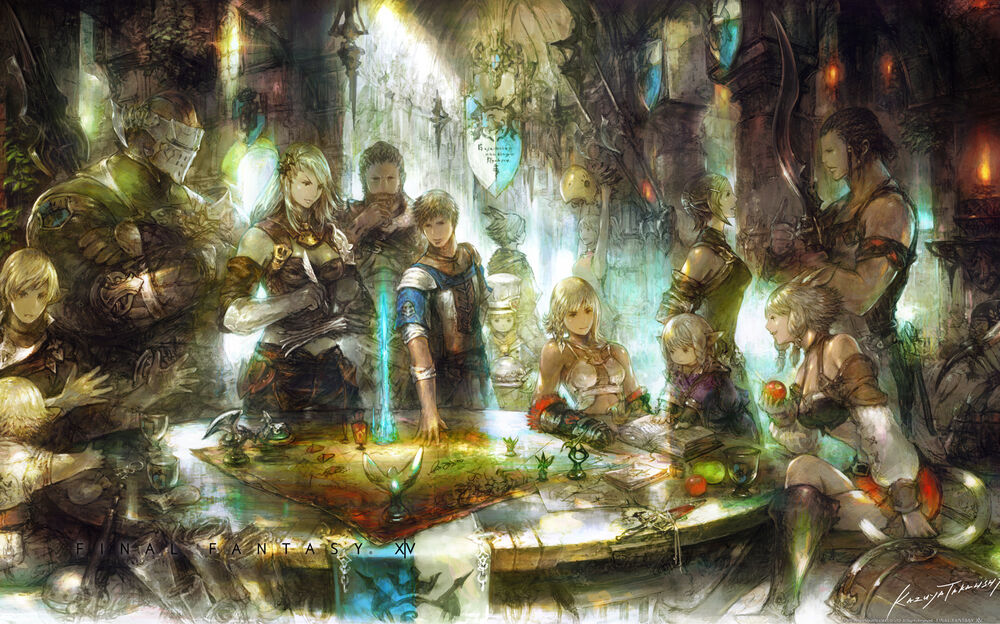
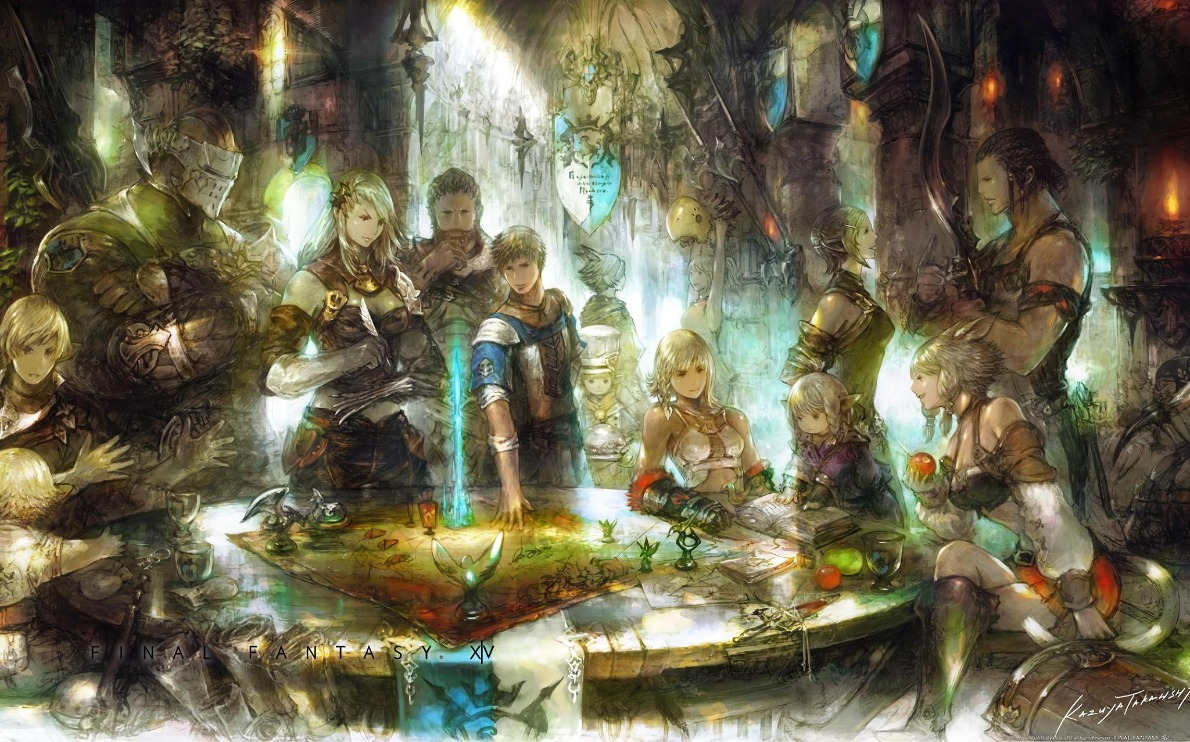
Redesigning website (in progress)

diff --git a/public/css/styles.css b/public/css/styles.css
@@ -9,26 +9,29 @@ html {
 }
 
 body {
-  background-color: gray;
+  /* background-image: url(../img/ff14-background.jpg);
+  background-position: center; */
+  background-color: rgb(37, 37, 37);
   margin: 0 auto;
 }
 
 #wrapper {
   margin: 0 auto;
-  width: 1120px;
+  width: 1200px;
   height: 100%;
 }
 
 /* Header CSS*/
 
 #masthead {
-  padding: 10px;
+  padding: 5px;
   background-color: white;
 }
 
 #header-img {
-  background-image: url(../img/ff14-fc-desk.png);
-  background-position: center;
+  /* background-image: url(../img/ff14-crystal.jpg);
+  background-position: center; */
+  background-color: rgb(10, 9, 10);
 }
 
 #header-title {
@@ -61,7 +64,7 @@ header img {
 header nav ul {
   margin: 0;
   position: relative;
-  background-color: #504741;
+  background-color: #3b3632;
   list-style: none;
   text-align: center;
 }
@@ -135,8 +138,8 @@ header nav li a {
 /* Top Content */
 
 #content-wrapper {
-  margin-top: 20px;
-  padding: 10px;
+  margin-top: 10px;
+  padding: 5px;
   background-color: white;
 }
 
@@ -168,7 +171,6 @@ header nav li a {
 #login {
   display: inline;
   text-align: center;
-  margin-top: 20px;
 }
 
 #login-container {
@@ -232,21 +234,21 @@ header nav li a {
 
 /* Page Img */
 #page-img-wrapper {
-  padding: 10px;
+  padding: 5px;
   background-color: white;
-  margin-top: 20px;
+  margin-top: 10px;
 }
 
 /* Main Page Content */
 #main {
-  margin-top: 20px;
-  padding: 10px;
+  margin-top: 10px;
+  padding: 5px;
   background-color: white;
 }
 
 /* About Page */
 .section div {
-  margin: 2rem;
+  margin: 1rem;
 }
 
 #casual div {
@@ -278,9 +280,13 @@ header nav li a {
   margin: 1rem;
 }
 
+.right-align {
+  text-align: right;
+}
+
 /* Footer */
 footer {
-  background-color: #504741;
+  background-color: #3b3632;
   color: #fff;
   margin-top: 1rem;
   padding: 1rem;
@@ -290,14 +296,24 @@ footer {
 #gallery-grid {
   border: 1px solid black;
   max-width: 1100x;
-  margin: 0 auto;
   padding: 15px;
+  text-align: center;
+}
+
+#gallery-grid-container {
+  margin: 5px auto;
+}
+
+#thumbnails {
+  margin: 0 auto;
+  background-color: blue;
 }
 
 #gallery-grid img {
   border: 1px solid black;
   margin: 5px;
   padding: 5px;
+  cursor: pointer;
 }
 
 

diff --git a/public/gallery.php b/public/gallery.php
@@ -18,15 +18,17 @@
         <script src="<?php echo url_for('../public/js/gallery.js'); ?>" defer></script>
         <!-- Thumbnail Gallery -->
         <div id="gallery-grid">
-          <img id="img1" src="<?php echo url_for('/img/gallery/ff14-group-photo-small.jpg'); ?>" alt="Free Company Group Photo" width="345" height="194">
-          <img id="img2" src="<?php echo url_for('/img/gallery/ff14-shadowbringers-small.jpg'); ?>" alt="Free Company Dungeon" width="345" height="194">
-          <img id="img3" src="<?php echo url_for('/img/gallery/ff14-rival-wings-small.jpg'); ?>" alt="Free Company Fight" width="345" height="194">
-          <img id="img4" src="<?php echo url_for('/img/gallery/ff14-all-black-small.jpg'); ?>" alt="Free Company All Black Photo" width="345" height="194">
-          <img id="img5" src="<?php echo url_for('/img/gallery/ff14-stance-small.jpg'); ?>" alt="Free Company Stance Photo" width="345" height="194">
-          <img id="img6" src="<?php echo url_for('/img/gallery/ff14-mech-boss-small.jpg'); ?>" alt="Free Company Mech Boss" width="345" height="194">
-          <img id="img7" src="<?php echo url_for('/img/gallery/ff14-armored-small.jpg'); ?>" alt="Free Company Armored Photo" width="345" height="194">
-          <img id="img8" src="<?php echo url_for('/img/gallery/ff14-ultima-boss-small.jpg'); ?>" alt="Free Company Ultima Boss" width="345" height="194">
-          <img id="img9" src="<?php echo url_for('/img/gallery/ff14-ingame-small.jpg'); ?>" alt="Free Company In-Game Photo" width="345" height="194">
+          <div id="gallery-grid-container">
+            <img id="img1" src="<?php echo url_for('/img/gallery/ff14-group-photo-small.jpg'); ?>" alt="Free Company Group Photo" width="345" height="194">
+            <img id="img2" src="<?php echo url_for('/img/gallery/ff14-shadowbringers-small.jpg'); ?>" alt="Free Company Dungeon" width="345" height="194">
+            <img id="img3" src="<?php echo url_for('/img/gallery/ff14-rival-wings-small.jpg'); ?>" alt="Free Company Fight" width="345" height="194">
+            <img id="img4" src="<?php echo url_for('/img/gallery/ff14-all-black-small.jpg'); ?>" alt="Free Company All Black Photo" width="345" height="194">
+            <img id="img5" src="<?php echo url_for('/img/gallery/ff14-stance-small.jpg'); ?>" alt="Free Company Stance Photo" width="345" height="194">
+            <img id="img6" src="<?php echo url_for('/img/gallery/ff14-mech-boss-small.jpg'); ?>" alt="Free Company Mech Boss" width="345" height="194">
+            <img id="img7" src="<?php echo url_for('/img/gallery/ff14-armored-small.jpg'); ?>" alt="Free Company Armored Photo" width="345" height="194">
+            <img id="img8" src="<?php echo url_for('/img/gallery/ff14-ultima-boss-small.jpg'); ?>" alt="Free Company Ultima Boss" width="345" height="194">
+            <img id="img9" src="<?php echo url_for('/img/gallery/ff14-ingame-small.jpg'); ?>" alt="Free Company In-Game Photo" width="345" height="194">
+          </div>
         </div>
 
         <!-- Modal -->

diff --git a/public/staff.php b/public/staff.php
@@ -46,7 +46,7 @@
 
         <div class="section">
           <img src="<?php echo url_for('/img/staff/ff14-council-2.jpg'); ?>" alt="Marco Wrynn" width="436" height="560">
-          <div>
+          <div class="right-align">
             <h3>Marco Wrynn</h3>
             <p>Bacon ipsum dolor amet hamburger shoulder pig brisket cupim corned beef leberkas turducken chuck bacon ham jowl tenderloin short loin tongue. Leberkas ground round alcatra beef short ribs jowl biltong kielbasa pastrami shank filet mignon cow pork belly sausage. Cow ribeye t-bone sirloin, short loin fatback ground round tri-tip alcatra meatloaf tenderloin venison turducken pig bacon.</p>
           </div>
@@ -68,7 +68,7 @@
         </div>
         <div class="section">
           <img src="<?php echo url_for('/img/staff/ff14-officer-1.jpg'); ?>" alt="Naga Fellrain" width="340" height="570">
-          <div>
+          <div class="right-align">
             <h3>Naga Fellrain</h3>
             <p>Bacon ipsum dolor amet hamburger shoulder pig brisket cupim corned beef leberkas turducken chuck bacon ham jowl tenderloin short loin tongue. Leberkas ground round alcatra beef short ribs jowl biltong kielbasa pastrami shank filet mignon cow pork belly sausage. Cow ribeye t-bone sirloin, short loin fatback ground round tri-tip alcatra meatloaf tenderloin venison turducken pig bacon.</p>
           </div>
@@ -84,7 +84,7 @@
 
         <div class="section">
           <img src="<?php echo url_for('/img/staff/ff14-officer-3.jpg'); ?>" alt="Aleidis Westmoore" width="340" height="570">
-          <div>
+          <div class="right-align">
             <h3>Aleidis Westmoore</h3>
             <p>Bacon ipsum dolor amet hamburger shoulder pig brisket cupim corned beef leberkas turducken chuck bacon ham jowl tenderloin short loin tongue. Leberkas ground round alcatra beef short ribs jowl biltong kielbasa pastrami shank filet mignon cow pork belly sausage. Cow ribeye t-bone sirloin, short loin fatback ground round tri-tip alcatra meatloaf tenderloin venison turducken pig bacon.</p>
           </div>
@@ -100,7 +100,7 @@
 
         <div class="section">
           <img src="<?php echo url_for('/img/staff/ff14-officer-5.jpg'); ?>" alt="Aang Jopino" width="340" height="570">
-          <div>
+          <div class="right-align">
             <h3>Aang Jopino</h3>
             <p>Bacon ipsum dolor amet hamburger shoulder pig brisket cupim corned beef leberkas turducken chuck bacon ham jowl tenderloin short loin tongue. Leberkas ground round alcatra beef short ribs jowl biltong kielbasa pastrami shank filet mignon cow pork belly sausage. Cow ribeye t-bone sirloin, short loin fatback ground round tri-tip alcatra meatloaf tenderloin venison turducken pig bacon.</p>
           </div>

diff --git a/private/shared/public_header.php b/private/shared/public_header.php
@@ -14,27 +14,28 @@
     <link href="<?php echo url_for('../public/css/modal.css'); ?>" rel="stylesheet">
   </head>
   <body>
-    <div id="wrapper">
-     
-      <header>
-        <div id="masthead">
-          <div id="header-img">
-            <a href="index.php"><img src="img/crest_white-e1601152867882.png" alt="Crest" width="230" height="235"></a>
-            <div id="header-title">
-              <a href="index.php"><h1>SHADOWS OF DOMA</h1></a>
-              <a href="index.php"><p>FINAL FANTASY XIV</p></a>
-              <a href="index.php"><p>FREE COMPANY/GUILD WEBSITE</p></a>
-            </div>
+    <header>
+      <div id="masthead">
+        <div id="header-img">
+          <a href="index.php"><img src="img/ff14-guild-crest.png" alt="Crest" width="200" height="207"></a>
+          <div id="header-title">
+            <a href="index.php"><h1>SHADOWS OF DOMA</h1></a>
+            <a href="index.php"><p>FINAL FANTASY XIV</p></a>
+            <a href="index.php"><p>FREE COMPANY/GUILD WEBSITE</p></a>
           </div>
         </div>
-        <nav>
-          <ul>
-            <li><a class="<?php if($page == "home") { echo "current"; } ?>" href="index.php">Home</a></li>
-            <li><a class="<?php if($page == "about") { echo "current"; } ?>" href="about.php">About Us</a></li>
-            <li><a class="<?php if($page == "staff") { echo "current"; } ?>" href="staff.php">Meet Our Staff</a></li>
-            <li><a class="<?php if($page == "gallery") { echo "current"; } ?>" href="gallery.php">Gallery</a></li>
-            <li><a class="<?php if($page == "roster") { echo "current"; } ?>" href="roster.php">Roster</a></li>
-            <li><a class="<?php if($page == "login" || $page == "signup") { echo "current"; } ?>" href="login.php">Log in/Register</a></li>
-          </ul>
-        </nav>
-      </header>
+      </div>
+      <nav>
+        <ul>
+          <li><a class="<?php if($page == "home") { echo "current"; } ?>" href="index.php">Home</a></li>
+          <li><a class="<?php if($page == "about") { echo "current"; } ?>" href="about.php">About Us</a></li>
+          <li><a class="<?php if($page == "staff") { echo "current"; } ?>" href="staff.php">Meet Our Staff</a></li>
+          <li><a class="<?php if($page == "gallery") { echo "current"; } ?>" href="gallery.php">Gallery</a></li>
+          <li><a class="<?php if($page == "roster") { echo "current"; } ?>" href="roster.php">Roster</a></li>
+          <li><a class="<?php if($page == "login" || $page == "signup") { echo "current"; } ?>" href="login.php">Log in/Register</a></li>
+        </ul>
+      </nav>
+    </header>
+    <div id="wrapper">
+     
+      

diff --git a/public/index.php b/public/index.php
@@ -16,7 +16,7 @@
       </div>
       
       <div id="page-img-wrapper">
-        <img src="<?php echo url_for('/img/ff14-free-company.jpg'); ?>" alt="House" width="1096" height="616">
+        <img src="<?php echo url_for('/img/ff14-free-company.jpg'); ?>" alt="House" width="1190" height="742">
       </div>
       
 <?php

diff --git a/private/shared/public_footer.php b/private/shared/public_footer.php
@@ -1,7 +1,6 @@
-      <footer>
+    </div>
+    <footer>
         <p>&#169; Copyright 2021. Created by Miles Hollifield.</p>
       </footer>
-      
-    </div>
   </body>
 </html>
